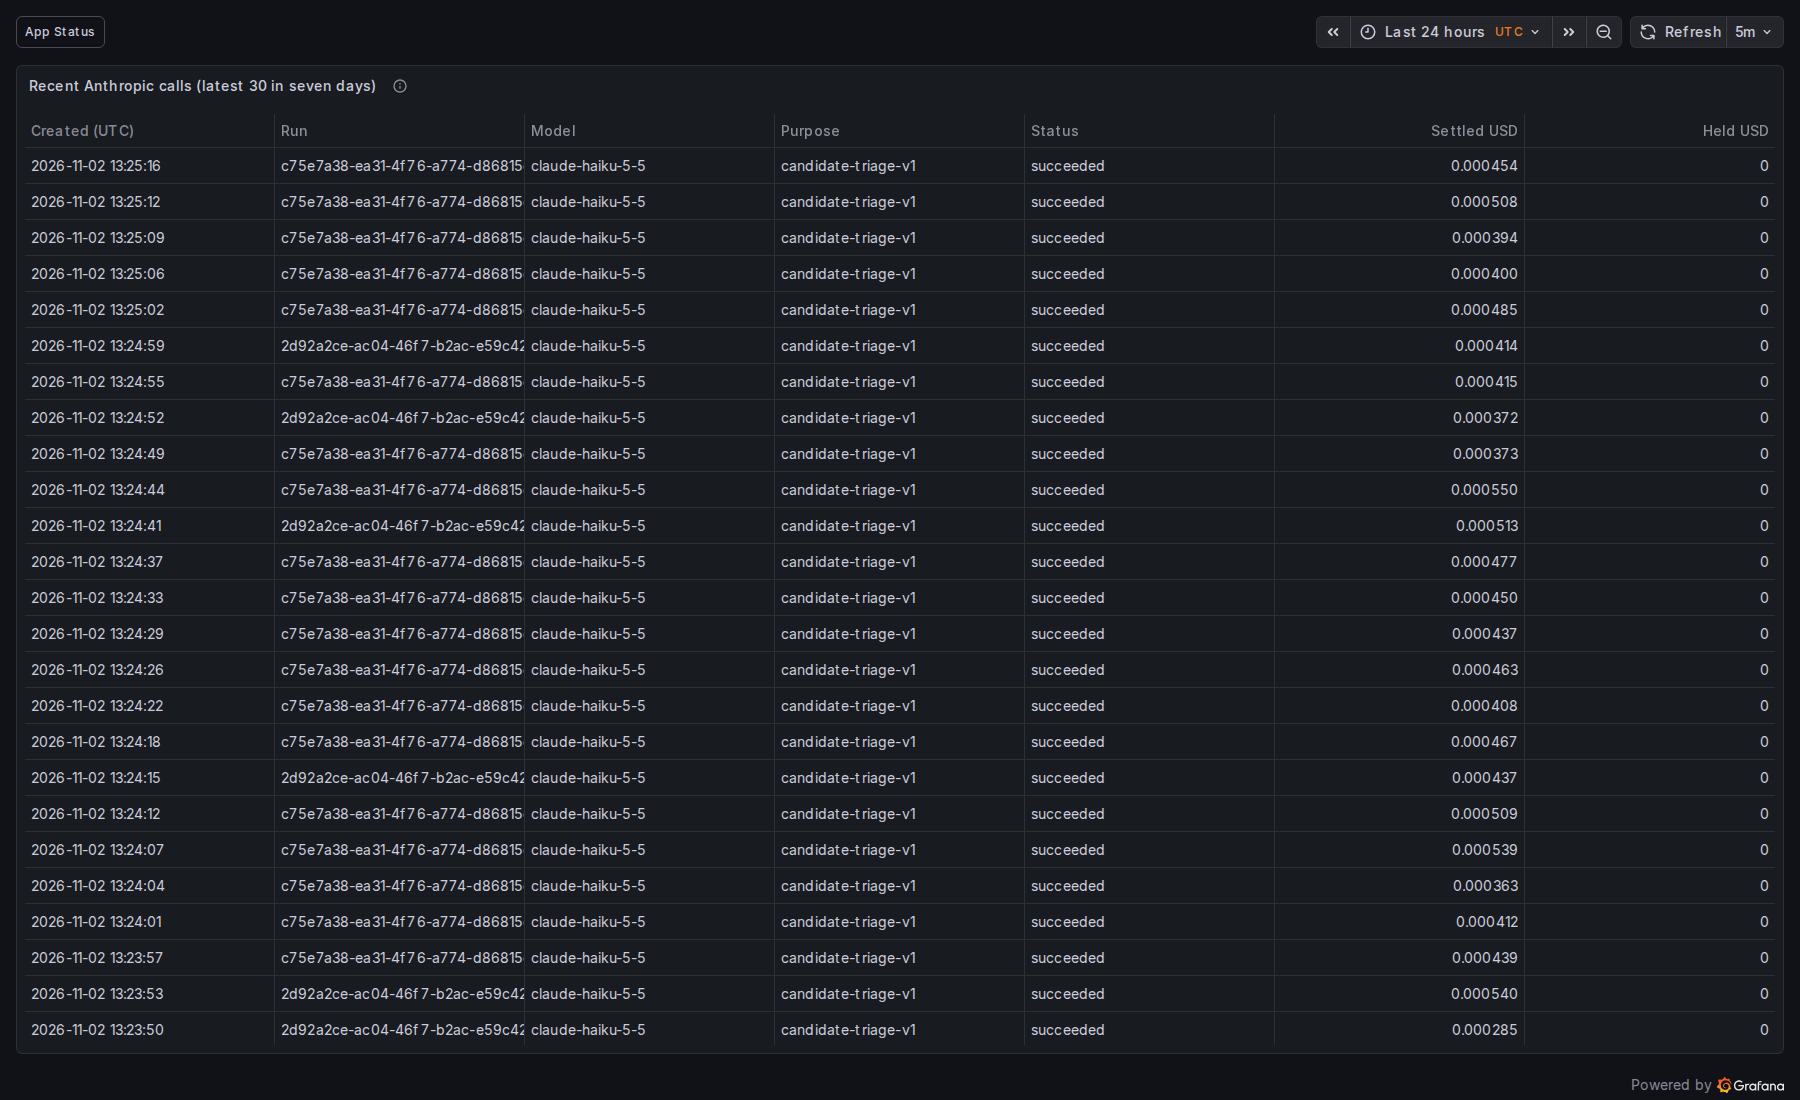
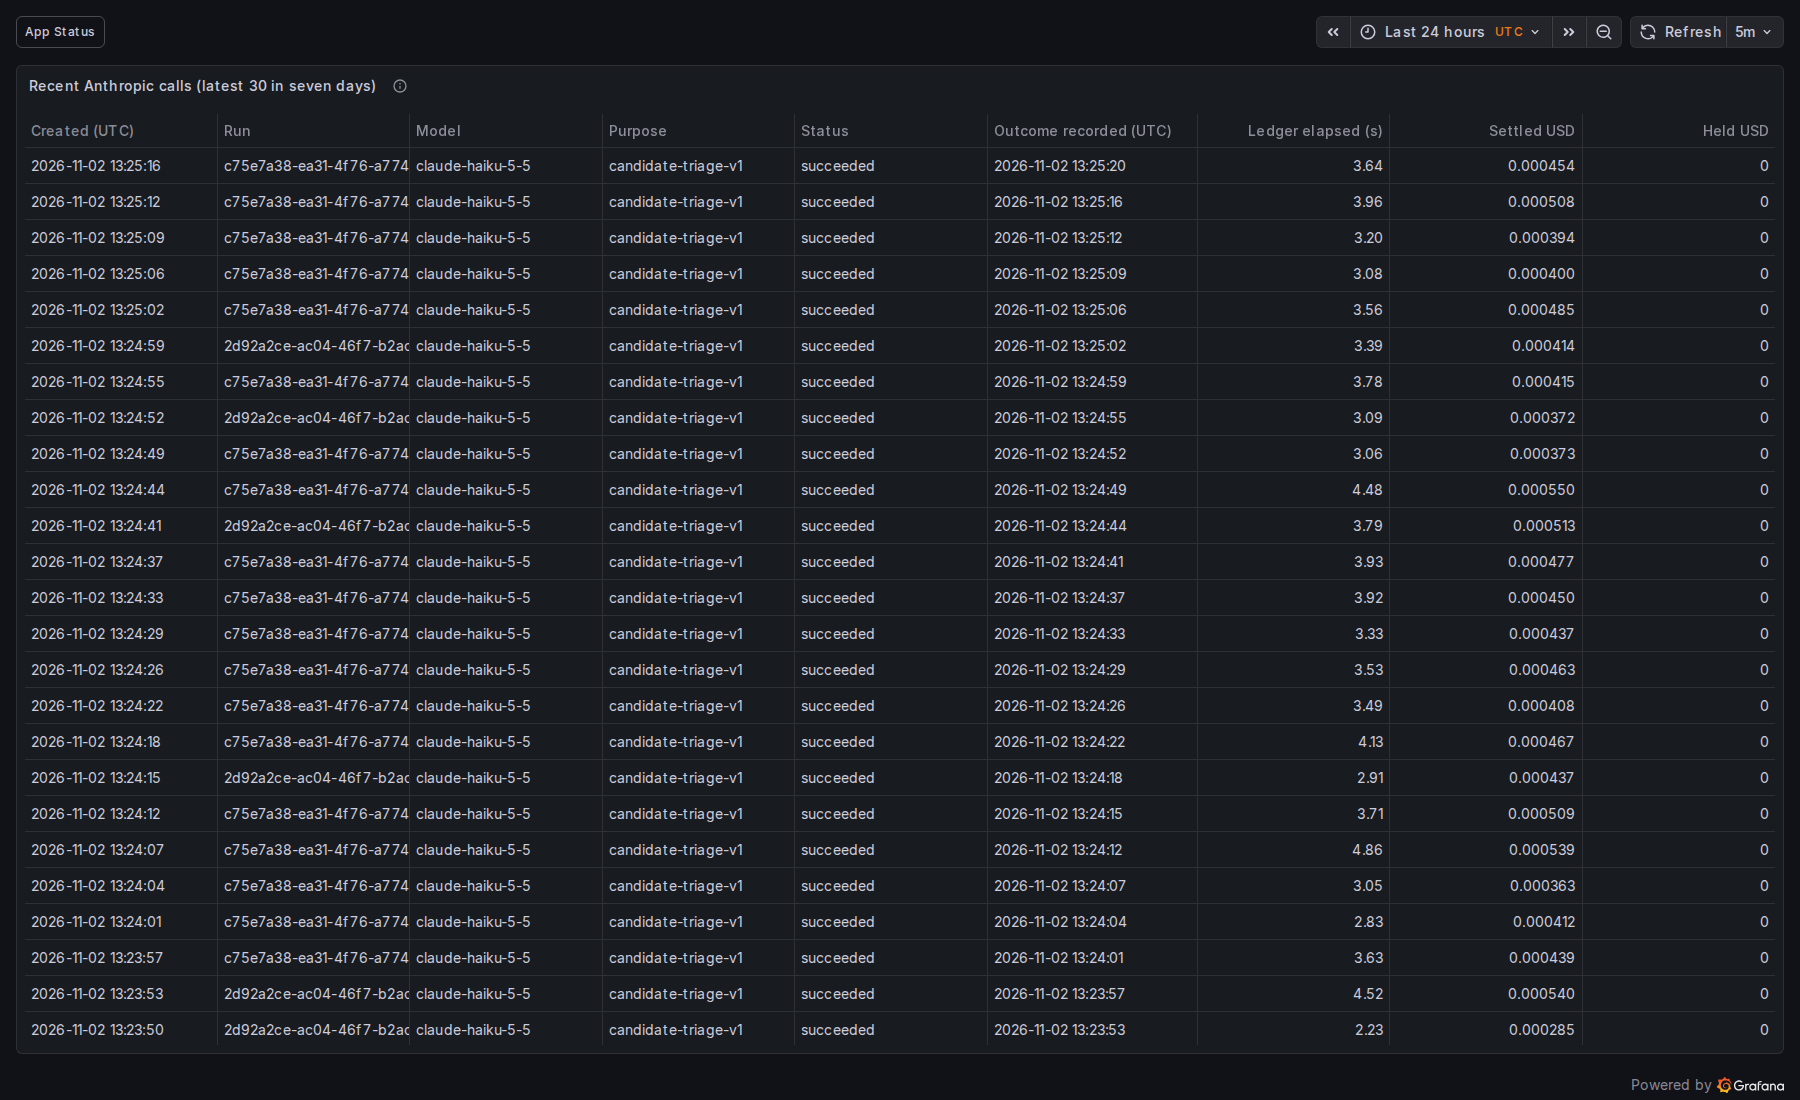
Show Anthropic call outcome timing in Product dashboard

diff --git a/scripts/lib/check-grafana.ts b/scripts/lib/check-grafana.ts
@@ -561,7 +561,7 @@ export async function checkGrafana() {
       .scrollIntoViewIfNeeded();
     await page.waitForTimeout(1500);
     await page
-      .getByRole('columnheader', { name: 'Purpose', exact: true })
+      .getByRole('columnheader', { name: 'Ledger elapsed (s)', exact: true })
       .waitFor();
     await page.screenshot({
       path: 'docs/screenshots/grafana-product-anthropic-calls-desktop.png',
@@ -573,6 +573,13 @@ export async function checkGrafana() {
         exact: true,
       })
       .evaluate((node) => node.scrollIntoView({ block: 'start' }));
+    // The grid virtualizes columns: scroll before locating offscreen headers.
+    await page.locator('.rdg').evaluate((node) => {
+      node.scrollLeft = 800;
+    });
+    await page
+      .getByRole('columnheader', { name: 'Ledger elapsed (s)', exact: true })
+      .waitFor();
     await page.waitForTimeout(1000);
     await page.screenshot({
       path: 'docs/screenshots/grafana-product-anthropic-calls-mobile.png',

diff --git a/PROGRESS.md b/PROGRESS.md
@@ -1,17 +1,8 @@
 # Progress
 
-Archived: [iteration 370](docs/progress-archive/2026-11-03-iteration-370.md), [iteration 369](docs/progress-archive/2026-11-03-iteration-369.md), [iteration 367](docs/progress-archive/2026-11-03-iteration-367.md), [iteration 366](docs/progress-archive/2026-11-03-iteration-366.md), [iteration 365](docs/progress-archive/2026-11-03-iteration-365.md), [iteration 364](docs/progress-archive/2026-11-03-iteration-364.md), [iteration 363](docs/progress-archive/2026-11-03-iteration-363.md), [iteration 362](docs/progress-archive/2026-11-03-iteration-362.md), [iteration 361](docs/progress-archive/2026-11-03-iteration-361.md), [iteration 360](docs/progress-archive/2026-11-03-iteration-360.md), [iteration 359](docs/progress-archive/2026-11-03-iteration-359.md), [iteration 357](docs/progress-archive/2026-11-03-iteration-357.md), [iteration 356](docs/progress-archive/2026-11-03-iteration-356.md), [iteration 355](docs/progress-archive/2026-11-03-iteration-355.md), [iteration 354](docs/progress-archive/2026-11-03-iteration-354.md), [iteration 353](docs/progress-archive/2026-11-03-iteration-353.md), [iteration 352](docs/progress-archive/2026-11-03-iteration-352.md), [iteration 351](docs/progress-archive/2026-11-03-iteration-351.md), [iteration 350](docs/progress-archive/2026-11-03-iteration-350.md), [iteration 349](docs/progress-archive/2026-11-03-iteration-349.md), [iteration 348](docs/progress-archive/2026-11-03-iteration-348.md), [iteration 347](docs/progress-archive/2026-11-03-iteration-347.md), [iteration 346](docs/progress-archive/2026-11-03-iteration-346.md), [iteration 345](docs/progress-archive/2026-11-03-iteration-345.md), [iteration 344](docs/progress-archive/2026-11-03-iteration-344.md), [iteration 343](docs/progress-archive/2026-11-03-iteration-343.md), [iteration 342](docs/progress-archive/2026-11-03-iteration-342.md), [iteration 341](docs/progress-archive/2026-11-03-iteration-341.md), [iteration 340](docs/progress-archive/2026-11-03-iteration-340.md), [iteration 338](docs/progress-archive/2026-11-03-iteration-338.md), [iteration 337](docs/progress-archive/2026-11-03-iteration-337.md), [iteration 336](docs/progress-archive/2026-11-03-iteration-336.md), [iteration 335](docs/progress-archive/2026-11-03-iteration-335.md), [iteration 334](docs/progress-archive/2026-11-03-iteration-334.md), [iteration 332](docs/progress-archive/2026-11-03-iteration-332.md), [iteration 331](docs/progress-archive/2026-11-03-iteration-331.md), [iteration 330](docs/progress-archive/2026-11-03-iteration-330.md), [iteration 329](docs/progress-archive/2026-11-03-iteration-329.md), [iteration 328](docs/progress-archive/2026-11-03-iteration-328.md), [iteration 327](docs/progress-archive/2026-11-03-iteration-327.md), [iteration 326](docs/progress-archive/2026-11-03-iteration-326.md), [iteration 325](docs/progress-archive/2026-11-03-iteration-325.md), [iteration 324](docs/progress-archive/2026-11-03-iteration-324.md), [iteration 321](docs/progress-archive/2026-11-03-iteration-321.md), [iteration 320](docs/progress-archive/2026-11-03-iteration-320.md), [iteration 319](docs/progress-archive/2026-11-03-iteration-319.md), [iterations 317–318](docs/progress-archive/2026-11-03-iterations-317-318.md), [iterations 315–316](docs/progress-archive/2026-11-03-iterations-315-316.md), [iterations 313–314](docs/progress-archive/2026-11-03-iterations-313-314.md), [iterations 311–312](docs/progress-archive/2026-11-03-iterations-311-312.md), [iterations 309–310](docs/progress-archive/2026-11-03-iterations-309-310.md), [iterations 307–308](docs/progress-archive/2026-11-03-iterations-307-308.md), [iterations 305–306](docs/progress-archive/2026-11-03-iterations-305-306.md), [iterations 303–304](docs/progress-archive/2026-11-03-iterations-303-304.md), [iteration 302](docs/progress-archive/2026-11-03-iteration-302.md), [iteration 301](docs/progress-archive/2026-11-03-iteration-301.md), [iteration 300](docs/progress-archive/2026-11-03-iteration-300.md), [iteration 299](docs/progress-archive/2026-11-03-iteration-299.md), [iteration 298](docs/progress-archive/2026-11-03-iteration-298.md), [iteration 297](docs/progress-archive/2026-11-03-iteration-297.md), [iteration 296](docs/progress-archive/2026-11-03-iteration-296.md), [iteration 295](docs/progress-archive/2026-11-03-iteration-295.md), [iteration 294](docs/progress-archive/2026-11-03-iteration-294.md), [iteration 293](docs/progress-archive/2026-11-03-iteration-293.md), [iteration 292](docs/progress-archive/2026-11-03-iteration-292.md), [iteration 291](docs/progress-archive/2026-11-03-iteration-291.md), [iteration 290](docs/progress-archive/2026-11-03-iteration-290.md), [iteration 288](docs/progress-archive/2026-11-03-iteration-288.md), [iteration 285](docs/progress-archive/2026-11-03-iteration-285.md), [286](docs/progress-archive/2026-11-03-iteration-286.md).
+Archived: [iteration 371](docs/progress-archive/2026-11-03-iteration-371.md), [iteration 370](docs/progress-archive/2026-11-03-iteration-370.md), [iteration 369](docs/progress-archive/2026-11-03-iteration-369.md), [iteration 367](docs/progress-archive/2026-11-03-iteration-367.md), [iteration 366](docs/progress-archive/2026-11-03-iteration-366.md), [iteration 365](docs/progress-archive/2026-11-03-iteration-365.md), [iteration 364](docs/progress-archive/2026-11-03-iteration-364.md), [iteration 363](docs/progress-archive/2026-11-03-iteration-363.md), [iteration 362](docs/progress-archive/2026-11-03-iteration-362.md), [iteration 361](docs/progress-archive/2026-11-03-iteration-361.md), [iteration 360](docs/progress-archive/2026-11-03-iteration-360.md), [iteration 359](docs/progress-archive/2026-11-03-iteration-359.md), [iteration 357](docs/progress-archive/2026-11-03-iteration-357.md), [iteration 356](docs/progress-archive/2026-11-03-iteration-356.md), [iteration 355](docs/progress-archive/2026-11-03-iteration-355.md), [iteration 354](docs/progress-archive/2026-11-03-iteration-354.md), [iteration 353](docs/progress-archive/2026-11-03-iteration-353.md), [iteration 352](docs/progress-archive/2026-11-03-iteration-352.md), [iteration 351](docs/progress-archive/2026-11-03-iteration-351.md), [iteration 350](docs/progress-archive/2026-11-03-iteration-350.md), [iteration 349](docs/progress-archive/2026-11-03-iteration-349.md), [iteration 348](docs/progress-archive/2026-11-03-iteration-348.md), [iteration 347](docs/progress-archive/2026-11-03-iteration-347.md), [iteration 346](docs/progress-archive/2026-11-03-iteration-346.md), [iteration 345](docs/progress-archive/2026-11-03-iteration-345.md), [iteration 344](docs/progress-archive/2026-11-03-iteration-344.md), [iteration 343](docs/progress-archive/2026-11-03-iteration-343.md), [iteration 342](docs/progress-archive/2026-11-03-iteration-342.md), [iteration 341](docs/progress-archive/2026-11-03-iteration-341.md), [iteration 340](docs/progress-archive/2026-11-03-iteration-340.md), [iteration 338](docs/progress-archive/2026-11-03-iteration-338.md), [iteration 337](docs/progress-archive/2026-11-03-iteration-337.md), [iteration 336](docs/progress-archive/2026-11-03-iteration-336.md), [iteration 335](docs/progress-archive/2026-11-03-iteration-335.md), [iteration 334](docs/progress-archive/2026-11-03-iteration-334.md), [iteration 332](docs/progress-archive/2026-11-03-iteration-332.md), [iteration 331](docs/progress-archive/2026-11-03-iteration-331.md), [iteration 330](docs/progress-archive/2026-11-03-iteration-330.md), [iteration 329](docs/progress-archive/2026-11-03-iteration-329.md), [iteration 328](docs/progress-archive/2026-11-03-iteration-328.md), [iteration 327](docs/progress-archive/2026-11-03-iteration-327.md), [iteration 326](docs/progress-archive/2026-11-03-iteration-326.md), [iteration 325](docs/progress-archive/2026-11-03-iteration-325.md), [iteration 324](docs/progress-archive/2026-11-03-iteration-324.md), [iteration 321](docs/progress-archive/2026-11-03-iteration-321.md), [iteration 320](docs/progress-archive/2026-11-03-iteration-320.md), [iteration 319](docs/progress-archive/2026-11-03-iteration-319.md), [iterations 317–318](docs/progress-archive/2026-11-03-iterations-317-318.md), [iterations 315–316](docs/progress-archive/2026-11-03-iterations-315-316.md), [iterations 313–314](docs/progress-archive/2026-11-03-iterations-313-314.md), [iterations 311–312](docs/progress-archive/2026-11-03-iterations-311-312.md), [iterations 309–310](docs/progress-archive/2026-11-03-iterations-309-310.md), [iterations 307–308](docs/progress-archive/2026-11-03-iterations-307-308.md), [iterations 305–306](docs/progress-archive/2026-11-03-iterations-305-306.md), [iterations 303–304](docs/progress-archive/2026-11-03-iterations-303-304.md), [iteration 302](docs/progress-archive/2026-11-03-iteration-302.md), [iteration 301](docs/progress-archive/2026-11-03-iteration-301.md), [iteration 300](docs/progress-archive/2026-11-03-iteration-300.md), [iteration 299](docs/progress-archive/2026-11-03-iteration-299.md), [iteration 298](docs/progress-archive/2026-11-03-iteration-298.md), [iteration 297](docs/progress-archive/2026-11-03-iteration-297.md), [iteration 296](docs/progress-archive/2026-11-03-iteration-296.md), [iteration 295](docs/progress-archive/2026-11-03-iteration-295.md), [iteration 294](docs/progress-archive/2026-11-03-iteration-294.md), [iteration 293](docs/progress-archive/2026-11-03-iteration-293.md), [iteration 292](docs/progress-archive/2026-11-03-iteration-292.md), [iteration 291](docs/progress-archive/2026-11-03-iteration-291.md), [iteration 290](docs/progress-archive/2026-11-03-iteration-290.md), [iteration 288](docs/progress-archive/2026-11-03-iteration-288.md), [iteration 285](docs/progress-archive/2026-11-03-iteration-285.md), [286](docs/progress-archive/2026-11-03-iteration-286.md).
 
 Earlier entries: [iterations 269–270](docs/progress-archive/2026-11-03-iterations-269-270.md), [271–272](docs/progress-archive/2026-11-03-iterations-271-272.md), [273–274](docs/progress-archive/2026-11-03-iterations-273-274.md), [275–276](docs/progress-archive/2026-11-03-iterations-275-276.md), [277–278](docs/progress-archive/2026-11-03-iterations-277-278.md), [279–280](docs/progress-archive/2026-11-03-iterations-279-280.md), [282](docs/progress-archive/2026-11-03-iteration-282.md), [283](docs/progress-archive/2026-11-03-iteration-283.md), [284](docs/progress-archive/2026-11-03-iteration-284.md).
-
-## 2026-11-03: iteration 371 — app runtime dashboard
-
-- Started clean on main; no leftover work. Four app services/health green, 32 sources without current errors, no failed digest jobs; two retained ingestion failures have recovered sources. Nov 3 15:00 UTC evidence remains pending.
-- Advanced O6 with six App runtime panels: four Node services' resident memory, used/allocated V8 heap, descriptor count/limit use and GC pause rate. Existing scrapes only; no collector, permissions or app behavior changes. Updated handbook/plan/TASKS; archived iteration 359.
-- Runtime verification now requires API/worker samples in every runtime query and waits for all desktop graphs to paint. First screenshot caught pending panel loads; final desktop/mobile captures inspected and retained. Unrelated regenerated captures discarded.
-- Verification: `pnpm format`, `pnpm lint:fix`, detached `pnpm check` (232 unit/172 integration, exit 0), `pnpm build`, handbook 09 and `git diff --check` passed. Final `check-observability.ts --verify-grafana --verify-o4`: 45 valid queries/42 populated, six healthy targets.
-- Grafana hot-reloaded; no app/DB/Redis changes or service restarts needed. Health and retained four-topic real scheduled edition verified. No paid calls or Reddit requests; production content/spending settings unchanged.
-- Next: scheduled evidence/acks first; otherwise O6 Redis/Agent and Product caps/timing. Production activation stays gated.
 
 ## 2026-11-03: iteration 372 — runtime CPU and active work
 
@@ -127,3 +118,13 @@ Earlier entries: [iterations 269–270](docs/progress-archive/2026-11-03-iterati
 - Browser initially missed the new panel below the rendered dashboard; increased capture height and used focused panel capture. Final desktop/mobile screenshots inspected; discarded unrelated regenerated captures.
 - Updated handbook/plan/TASKS; archived iteration 370. Grafana hot-reloaded; no service restart required. No content, schedule, caps, Reddit requests or production activation changes.
 - Next: scheduled evidence/acks first; otherwise remaining O6 caps/individual edition timing or O7 Postgres collection. Activation stays gated.
+
+## 2026-11-03: iteration 384 — Anthropic call outcome timing
+
+- Started clean on main; no leftover work. Health/services green, all 32 sources without current errors, no retained failed queue jobs. Scheduled evidence/acks remain due 15:00 UTC.
+- Product Anthropic history adds recorded outcome time and reservation-to-outcome seconds, including unpublished attempts. Pending values stay blank; uncertain outcomes retain holds. Elapsed includes local work, not HTTP latency or edition duration. Reader gains only completed_at.
+- Restricted-reader SQL passed 30 retained live calls plus synthetic pending/uncertain/succeeded/failed, elapsed, holds, cutoff, empty and limit cases; no paid calls or production data writes.
+- `pnpm format`, `pnpm lint:fix`, `pnpm check` (232 unit/172 integration), `pnpm build`, handbook 09 and `git diff --check` passed. Grafana/O4 passed: 64 queries/60 populated, seven healthy targets; Grafana 184 MiB.
+- Desktop/mobile captures inspected. Initial focused mobile probe could not locate virtualized offscreen headers; scroll the grid first, then assert elapsed header. Corrected focused browser probe passed; unrelated regenerated captures discarded.
+- Updated handbook/plan/TASKS and archived iteration 371. Grafana hot-reloaded; no service restart needed. No content, schedule, caps, Reddit requests or production activation changes.
+- Next: scheduled evidence/acks first; otherwise remaining O6 configured caps/individual edition timing or O7 Postgres collection. Activation stays gated.

diff --git a/TASKS.md b/TASKS.md
@@ -70,4 +70,4 @@ M0–M2; M3/M6/M7 foundations implemented.
 - [ ] STEERING 2a (lower priority): finish repository/HTTP characterization before ORM. Isolated DB/Redis, migrations, HTTP/worker and synthetic-AI goldens implemented (183–270); gaps: [database verification](docs/DATABASE-VERIFICATION.md). No live DB; finish 2a before ORM. Recorded-response golden open.
 - [ ] STEERING 2b (only after 2a is green): record Drizzle decision/schema parity, back up live DB, gradually replace raw SQL behind ports and enforce boundaries.
 
-- [ ] STEERING 24 (background): [observability plan](docs/observability-plan.md), only while product work is blocked. O1–O5 verified; O6 has Host/Services/HTTP/Jobs/Errors/Product/Database/Redis/App runtime dashboards. Product includes coverage, selection, edition costs/holds, reserve age, provider outcomes and per-call X history with outcome timing/failure reasons and individual Anthropic admissions (383). Agent, Database top queries (O7) and Product caps/individual timing remain. Scheduled evidence/acks take priority; preserve caps and run protection.
+- [ ] STEERING 24 (background): [observability plan](docs/observability-plan.md), only while product work is blocked. O1–O5 verified; O6 has Host/Services/HTTP/Jobs/Errors/Product/Database/Redis/App runtime dashboards. Product includes coverage, selection, edition costs/holds, reserve age, provider outcomes and per-call X history with outcome timing/failure reasons and individual Anthropic admissions with outcome timing (384). Agent, Database top queries (O7) and Product caps/individual timing remain. Scheduled evidence/acks take priority; preserve caps and run protection.

diff --git a/docs/progress-archive/2026-11-03-iteration-371.md b/docs/progress-archive/2026-11-03-iteration-371.md
@@ -1,0 +1,10 @@
+# Archived progress
+
+## 2026-11-03: iteration 371 — app runtime dashboard
+
+- Started clean on main; no leftover work. Four app services/health green, 32 sources without current errors, no failed digest jobs; two retained ingestion failures have recovered sources. Nov 3 15:00 UTC evidence remains pending.
+- Advanced O6 with six App runtime panels: four Node services' resident memory, used/allocated V8 heap, descriptor count/limit use and GC pause rate. Existing scrapes only; no collector, permissions or app behavior changes. Updated handbook/plan/TASKS; archived iteration 359.
+- Runtime verification now requires API/worker samples in every runtime query and waits for all desktop graphs to paint. First screenshot caught pending panel loads; final desktop/mobile captures inspected and retained. Unrelated regenerated captures discarded.
+- Verification: `pnpm format`, `pnpm lint:fix`, detached `pnpm check` (232 unit/172 integration, exit 0), `pnpm build`, handbook 09 and `git diff --check` passed. Final `check-observability.ts --verify-grafana --verify-o4`: 45 valid queries/42 populated, six healthy targets.
+- Grafana hot-reloaded; no app/DB/Redis changes or service restarts needed. Health and retained four-topic real scheduled edition verified. No paid calls or Reddit requests; production content/spending settings unchanged.
+- Next: scheduled evidence/acks first; otherwise O6 Redis/Agent and Product caps/timing. Production activation stays gated.

diff --git a/docs/handbook/01-app/09-observability.md b/docs/handbook/01-app/09-observability.md
@@ -264,7 +264,7 @@ The latest edition selection table shows story/post picks, stored triage and uns
 
 Edition creation time is not worker duration. These table windows are explicit and ignore the Grafana time picker.
 AI mode can use cached work; verified citations are not incremental discovery yield.
-A separate Anthropic history lists the latest 30 admissions in seven days, including unpublished attempts, with run ID, model, purpose, status, settled charge and unresolved hold. Missing cost stays unknown. Cache reuse and refused admissions create no row; a run ID does not guarantee a published edition.
+A separate Anthropic history lists the latest 30 admissions in seven days, including unpublished attempts, with run ID, model, purpose, status, settled charge and unresolved hold. Outcome time records settlement or failure; reservation-to-outcome seconds include local work and do not measure provider HTTP latency or edition duration. Pending outcomes stay blank, and uncertain outcomes retain holds. Missing cost stays unknown. Cache reuse and refused admissions create no row; a run ID does not guarantee a published edition.
 
 Product also graphs mean worker attempt duration and settled
 attempt counts since the current worker started, by job name and outcome, using

diff --git a/docs/observability-plan.md b/docs/observability-plan.md
@@ -331,3 +331,5 @@ O6 incremental progress (381): Product adds the latest 30 X discovery calls in s
 O6 incremental progress (382): X call history adds safe failure reason, recorded outcome time and reservation-to-outcome elapsed seconds. Pending values stay blank; uncertain outcomes retain holds. Ledger elapsed includes local work, not provider HTTP latency or subsequent official verification. Reader gains only two operational columns.
 
 O6 incremental progress (383): Product adds the latest 30 Anthropic ledger admissions in seven days, including unpublished attempts, with run/model/purpose/status, settled cost and unresolved hold. Cache hits and refused requests are absent; null cost is unknown. Reader gains only ID/model/purpose columns.
+
+O6 incremental progress (384): Anthropic history adds recorded outcome time and reservation-to-outcome seconds. Pending values stay blank; uncertain outcomes retain holds. Ledger elapsed includes local work and is not HTTP latency or edition duration. Reader gains only completed_at.
